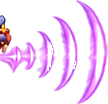
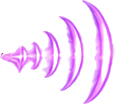
v0.75: sesler sırayla, zipla 3 ses, düşmanlar taş içinde doğmaz, mermi 8 karo / atış 9 karo, bitki zehri 5. karoya, fıçı kısa bekler, yarasa dalgası yeni görsel, gömme ayarları, P + tıkla ışınlan
Claude-Session: https://claude.ai/code/session_015fAnPKUucX6WRC71BPvNkG

diff --git a/js/sistemler/dusmanlar.js b/js/sistemler/dusmanlar.js
@@ -23,7 +23,7 @@ const DUSMAN_TIP = {
   yarasa:     [26, 20, 2, 0, true]      // uçar, oyuncunun yanına gelip ses dalgası atar
 };
 // Ayakları zemin çizgisinin bu kadar altına çizilenler (px, çimi örtsün)
-const DUSMAN_GOMME = { kedi: 7, domuz: 7, kertenkele: 7, golem: 7, bitki: 7, fici: 7, buyucu: 7 };
+const DUSMAN_GOMME = { kedi: 5, domuz: 5, kertenkele: 5, golem: 5, bitki: 5, fici: 5, buyucu: 5, maymun: 5, yilan: 5, gul: 5 };
 
 Object.assign(OyunSahnesi.prototype, {
 
@@ -37,6 +37,7 @@ Object.assign(OyunSahnesi.prototype, {
     const bw = bw0 * O / s, bh = bh0 * O / s;
     const gom = (DUSMAN_GOMME[e.tip] || 0) * O / s / O;   // görsel px → kare px
     const oy = (ucan ? (D.ust + D.ayak) / 2 : D.ayak) - gom;
+    if (e.tip !== 'boss' && e.tip !== 'orumcek') e = { ...e, x: this.dusmanBosX(e.x, e.y, bw0 * O, bh0 * O, ucan) };
     const y = e.tip === 'orumcek' ? e.tavan + 20 : e.y;
     const d = this.dusmanlar.create(e.x, y, 'd_' + e.tip, 0).setOrigin(0.5, oy / D.h).setScale(s).setDepth(6);
     d.body.setSize(bw, bh, false).setOffset((D.w - bw) / 2, ucan ? oy - bh / 2 : D.ayak - bh - gom);
@@ -60,6 +61,23 @@ Object.assign(OyunSahnesi.prototype, {
     return d;
   },
 
+  // Düşman taşın / sandığın / zeminin içinde doğmasın: gövdesi dolu kareye değiyorsa aynı zeminde en yakın boş yere
+  // (sola / sağa 8 px adımlarla, 8 karoya kadar) kayar. Yürüyenlerde yeni yerin altında zemin olmalı.
+  dusmanBosX(x, y, w, h, ucan) {
+    const T = this.L.karo, D = this.dolu, G = this.izgara;
+    const dolu = (r, c) => !D[r] || D[r][c] === undefined || D[r][c];
+    const bos = px => {
+      const x0 = px - w / 2, y0 = ucan ? y - h / 2 : y - h, y1 = ucan ? y + h / 2 : y - 1;
+      for (let r = Math.floor(y0 / T); r <= Math.floor(y1 / T); r++)
+        for (let c = Math.floor(x0 / T); c <= Math.floor((x0 + w - 1) / T); c++) if (dolu(r, c)) return false;
+      if (!ucan) { const r = Math.floor((y + 1) / T); for (const c of [Math.floor(x0 / T), Math.floor((x0 + w - 1) / T)]) if (!G[r] || !G[r][c]) return false; }
+      return true;
+    };
+    if (bos(x)) return x;
+    for (let k = 8; k <= 8 * T; k += 8) { if (bos(x - k)) return x - k; if (bos(x + k)) return x + k; }
+    return x;
+  },
+
   // Yürüyen düşmanın alanı: bastığı zemin parçası (duvar, uçurum ya da dikene kadar); alan dışına asla çıkmaz
   devriyeAlani(d, e) {
     const T = this.L.karo, G = this.izgara, W = G[0].length, H = G.length;
@@ -67,7 +85,7 @@ Object.assign(OyunSahnesi.prototype, {
     let r = Math.floor((e.y + 1) / T);
     while (r < H && !G[r][c]) r++;
     if (r >= H) return;
-    const ok = cc => cc >= 0 && cc < W && G[r][cc] && !G[r - 1][cc] && !this.dikenHucre.has(r + ',' + cc);
+    const ok = cc => cc >= 0 && cc < W && G[r][cc] && !G[r - 1][cc] && !this.dolu[r - 1][cc] && !this.dikenHucre.has(r + ',' + cc);
     if (!ok(c)) return;
     let a = c, z = c;
     while (ok(a - 1)) a--;
@@ -154,7 +172,7 @@ Object.assign(OyunSahnesi.prototype, {
     }
     d.atesBekle -= dt;
     const ayniZemin = yerdeMi(p.body) && Math.abs(p.body.bottom - b.bottom) < 8;
-    if (Math.abs(dx) < 420 && ayniZemin && !this.durum.olu) {
+    if (Math.abs(dx) < CONFIG.atisMenzil * 32 && ayniZemin && !this.durum.olu) {
       d.yon = Math.sign(dx) || 1;
       d.setFlipX(d.yon < 0);
       b.setVelocityX(0);
@@ -229,7 +247,7 @@ Object.assign(OyunSahnesi.prototype, {
     if (d.hazir > 0) { d.hazir -= dt; if (d.hazir <= 0) this.zehirAt(d); return; }
     d.atesBekle -= dt;
     const gor = !this.durum.olu && this.cameras.main.worldView.contains(d.x, d.y - 20)
-      && Math.abs(dx) < 7 * 32 + 16 && dy > -140 && dy < 80;
+      && Math.abs(dx) < 6 * 32 + 16 && dy > -140 && dy < 80;
     if (gor) {
       d.yon = Math.sign(dx) || 1;
       d.setFlipX(d.yon < 0);
@@ -238,11 +256,13 @@ Object.assign(OyunSahnesi.prototype, {
     if (!(d.anims.isPlaying && d.anims.currentAnim.key === 'd_bitki_at')) this.dusmanAnim(d, 'bekle');
   },
 
-  // Zehir: oyuncunun olduğu yere (en çok 7 karo) eğimli tükürük gibi düşer; yere ya da oyuncuya çarpınca zehirVur sesi
+  // Zehir: ağzından hafif yukarı çıkar, alçak bir yayla önündeki 5. karoya düşer; yere ya da oyuncuya çarpınca zehirVur sesi
   zehirAt(d) {
-    const M = ASSETLER.dusman.zehir, p = this.player, yon = d.yon;
-    const uzak = Phaser.Math.Clamp(Math.abs(p.x - d.x) - 16, 40, 7 * 32), vy = -380, t = 2 * -vy / CONFIG.fizik.yercekimi;
-    const m = this.mermiler.create(d.x + yon * 18, d.y - 30, 'zehir').setDepth(7);
+    const M = ASSETLER.dusman.zehir, yon = d.yon, g = CONFIG.fizik.yercekimi;
+    const agizY = d.y - 20, h = d.y - agizY, vy = -200;
+    const t = (-vy + Math.sqrt(vy * vy + 2 * g * h)) / g;     // ağızdan zemine iniş süresi
+    const uzak = 5 * 32 - 18;
+    const m = this.mermiler.create(d.x + yon * 18, agizY, 'zehir').setDepth(7);
     m.setDisplaySize(M.gen, M.gen * M.h / M.w);
     m.body.setAllowGravity(true);
     m.body.setSize(M.w * 0.4, M.h * 0.6, true);
@@ -270,16 +290,19 @@ Object.assign(OyunSahnesi.prototype, {
       T.rotation += d.yon * d.hizX * dt / (75 * s);
       const uc = (d.yon > 0 && d.x >= d.maxX - 1) || (d.yon < 0 && d.x <= d.minX + 1)
         || (b.blocked.right && d.yon > 0) || (b.blocked.left && d.yon < 0);
-      if (uc || (d.sure -= dt) <= 0) { this.ficiDon(d, false); d.yon = -d.yon; d.donus = 0; d.sonYon = d.yon; }
+      if (uc || (d.sure -= dt) <= 0) {
+        this.ficiDon(d, false); d.yon = -d.yon;
+        d.dinlen = Phaser.Math.Clamp((d.maxX - d.minX) / d.hiz / 2, 1, 4);   // bir turun dörtte biri kadar yürür
+      }
       return;
     }
     this.devriye(d, dt);
     this.dusmanAnim(d, 'yuru');
     d.setFlipX(d.yon < 0);
-    if (d.yon !== d.sonYon) { d.donus++; d.sonYon = d.yon; }
+    if (d.dinlen > 0) d.dinlen -= dt;
     const gor = !this.durum.olu && Math.abs(p.body.bottom - b.bottom) < 24 && Math.abs(dx) < 300
       && p.x >= d.minX - 24 && p.x <= d.maxX + 24 && this.cameras.main.worldView.contains(d.x, d.y - 10);
-    if (gor && d.donus >= 2) {
+    if (gor && !(d.dinlen > 0)) {
       d.durum = 'hazir'; d.sure = 0.5; d.yon = Math.sign(dx) || 1; d.setFlipX(d.yon < 0);
       this.dusmanAnim(d, 'hazir');
     }
@@ -318,7 +341,7 @@ Object.assign(OyunSahnesi.prototype, {
       hx = p.x + (dx > 0 ? -150 : 150); hy = p.y - 34 + Math.sin(time * 0.004 + d.faz) * 12;
       d.yon = Math.sign(dx) || 1;
       d.setFlipX(d.yon < 0);
-      if (gorus && d.atesBekle <= 0 && Math.abs(dy) < 40 && Math.abs(dx) < 280) {
+      if (gorus && d.atesBekle <= 0 && Math.abs(dy) < 40 && Math.abs(dx) < CONFIG.atisMenzil * 32) {
         d.saldiri = 0.45; d.atti = false; d.atesBekle = 2.2;
         d.play('d_yarasa_saldir');
         return;
@@ -353,12 +376,13 @@ Object.assign(OyunSahnesi.prototype, {
     m.body.setSize(M.w * 0.7, M.h * 0.6, true);
     m.setVelocityX(yon * (kopek ? 280 : ok ? 260 : yar ? 230 : buy ? 200 : 210));
     m.omur = 2.6;
+    m.baslaX = m.x;
   },
 
   updateMermiler(dt) {
     this.mermiler.getChildren().slice().forEach(m => {
       if (m.zehir) m.rotation = Math.atan2(m.body.velocity.y, m.body.velocity.x);   // zehir uçuş yönüne bakar
-      if ((m.omur -= dt) <= 0) m.destroy();
+      if ((m.omur -= dt) <= 0 || (m.baslaX !== undefined && Math.abs(m.x - m.baslaX) > CONFIG.mermiMenzil * 32)) m.destroy();
     });
   },
 
@@ -417,7 +441,8 @@ Object.assign(OyunSahnesi.prototype, {
   bossSes(zorla) {
     if (!zorla && this.bossSesObj && this.bossSesObj.isPlaying) return;
     this.bossSesObj = sesDurdur(this.bossSesObj);
-    this.bossSesObj = sesBaslat(this, 'boss' + Phaser.Math.Between(1, 13));
+    this.bossSira = (this.bossSira || 0) % 13 + 1;   // boss1 … boss13 sırayla
+    this.bossSesObj = sesBaslat(this, 'boss' + this.bossSira);
   },
 
   bossYen(d) {

diff --git a/js/veri/assetlar.js b/js/veri/assetlar.js
@@ -24,5 +24,6 @@ ASSETLER.kirParca = {"huc": 64, "sutun": 3, "sayi": [2, 1, 2, 2, 3, 2, 2, 2, 2, 
 
 
 
+
 // Düşman sayfaları (araclar/dusmanKes.py ile üretildi): hücre w×h, ayak çizgisi, görünür boy (oyun px), animasyon kareleri
-ASSETLER.dusman = {"gul": {"w": 140, "h": 107, "ayak": 106, "ust": 0, "boy": 36, "anim": {"yuru": [0, 1, 2, 3, 4, 5], "ol": [6, 7, 8, 9]}}, "yilan": {"w": 160, "h": 73, "ayak": 73, "ust": 9, "boy": 22, "anim": {"yuru": [0, 1, 2, 3, 4, 5], "ol": [6, 7, 8, 9]}}, "yuvarlak": {"w": 131, "h": 95, "ayak": 95, "ust": 2, "boy": 32, "anim": {"yuru": [0, 1, 2, 3, 4, 5], "ol": [6, 7, 8, 9]}}, "ari": {"w": 164, "h": 93, "ayak": 90, "ust": 0, "boy": 30, "anim": {"uc": [0, 1, 2, 3], "ol": [4, 5, 6, 7]}}, "orumcek": {"w": 161, "h": 110, "ayak": 104, "ust": 0, "boy": 34, "anim": {"bekle": [0, 1], "ol": [2, 3, 4, 5]}}, "maymun": {"w": 122, "h": 109, "ayak": 109, "ust": 1, "boy": 38, "anim": {"yuru": [0, 1, 2, 3, 4, 5], "dur": [0], "at": [6, 7, 8, 9, 10], "ol": [11, 12, 13]}}, "atesTopu": {"w": 96, "h": 60, "gen": 22}, "kopek": {"w": 146, "h": 113, "ayak": 113, "ust": 5, "boy": 40, "anim": {"yuru": [0, 1, 2, 3, 4, 5], "at": [6, 7, 8, 9], "ol": [10, 11]}}, "mizrak": {"w": 132, "h": 39, "gen": 26}, "boss": {"w": 190, "h": 181, "ayak": 181, "ust": 0, "boy": 84, "anim": {"yuru": [0, 1, 2, 3], "saldir": [4, 5, 6, 7], "ol": [8, 9]}}, "kedi": {"w": 188, "h": 154, "ayak": 154, "ust": 0, "boy": 46, "anim": {"yuru": [0, 1, 2, 3, 4, 5], "saldir": [6, 7, 8], "dur": [9], "ol": [6]}}, "domuz": {"w": 187, "h": 213, "ayak": 213, "ust": 38, "boy": 58, "anim": {"yuru": [0, 1, 2, 3, 4, 5], "saldir": [6, 7, 8], "dur": [9], "ol": [7]}}, "dalga": {"w": 108, "h": 104, "gen": 30}, "yarasa": {"w": 202, "h": 307, "ayak": 192, "ust": 28, "boy": 40, "anim": {"uc": [0, 1, 2, 3, 4, 5], "saldir": [6, 7, 8], "ol": [8]}}, "golem": {"w": 236, "h": 239, "ayak": 239, "ust": 4, "boy": 62, "anim": {"yuru": [0, 1, 2, 3, 4, 5], "saldir": [6, 7, 8, 9], "dur": [0], "ol": [7]}}, "zehir": {"w": 116, "h": 58, "gen": 26}, "bitki": {"w": 240, "h": 180, "ayak": 179, "ust": 2, "boy": 50, "anim": {"bekle": [0, 1, 2, 3, 4, 5], "at": [6, 7, 8, 9], "ol": [8]}}, "fici": {"w": 184, "h": 168, "ayak": 168, "ust": 0, "boy": 38, "anim": {"yuru": [0, 1, 2, 3, 4], "hazir": [5], "top": [6], "ol": [5]}}, "buyu": {"w": 145, "h": 96, "gen": 34}, "buyucu": {"w": 238, "h": 221, "ayak": 221, "ust": 3, "boy": 44, "anim": {"yuru": [0, 1, 2, 3], "buyu": [4, 5, 6, 7, 8], "dur": [4], "ol": [6]}}, "ok": {"w": 54, "h": 34, "gen": 24}, "kertenkele": {"w": 189, "h": 162, "ayak": 162, "ust": 0, "boy": 40, "anim": {"yuru": [0, 1, 2, 3, 4, 5], "at": [6, 7, 8], "dur": [9], "ol": [8]}}};
+ASSETLER.dusman = {"gul": {"w": 140, "h": 107, "ayak": 106, "ust": 0, "boy": 36, "anim": {"yuru": [0, 1, 2, 3, 4, 5], "ol": [6, 7, 8, 9]}}, "yilan": {"w": 160, "h": 73, "ayak": 73, "ust": 9, "boy": 22, "anim": {"yuru": [0, 1, 2, 3, 4, 5], "ol": [6, 7, 8, 9]}}, "yuvarlak": {"w": 131, "h": 95, "ayak": 95, "ust": 2, "boy": 32, "anim": {"yuru": [0, 1, 2, 3, 4, 5], "ol": [6, 7, 8, 9]}}, "ari": {"w": 164, "h": 93, "ayak": 90, "ust": 0, "boy": 30, "anim": {"uc": [0, 1, 2, 3], "ol": [4, 5, 6, 7]}}, "orumcek": {"w": 161, "h": 110, "ayak": 104, "ust": 0, "boy": 34, "anim": {"bekle": [0, 1], "ol": [2, 3, 4, 5]}}, "maymun": {"w": 122, "h": 109, "ayak": 109, "ust": 1, "boy": 38, "anim": {"yuru": [0, 1, 2, 3, 4, 5], "dur": [0], "at": [6, 7, 8, 9, 10], "ol": [11, 12, 13]}}, "atesTopu": {"w": 96, "h": 60, "gen": 22}, "kopek": {"w": 146, "h": 113, "ayak": 113, "ust": 5, "boy": 40, "anim": {"yuru": [0, 1, 2, 3, 4, 5], "at": [6, 7, 8, 9], "ol": [10, 11]}}, "mizrak": {"w": 132, "h": 39, "gen": 26}, "boss": {"w": 190, "h": 181, "ayak": 181, "ust": 0, "boy": 84, "anim": {"yuru": [0, 1, 2, 3], "saldir": [4, 5, 6, 7], "ol": [8, 9]}}, "kedi": {"w": 188, "h": 154, "ayak": 154, "ust": 0, "boy": 46, "anim": {"yuru": [0, 1, 2, 3, 4, 5], "saldir": [6, 7, 8], "dur": [9], "ol": [6]}}, "domuz": {"w": 187, "h": 213, "ayak": 213, "ust": 38, "boy": 58, "anim": {"yuru": [0, 1, 2, 3, 4, 5], "saldir": [6, 7, 8], "dur": [9], "ol": [7]}}, "dalga": {"w": 115, "h": 104, "gen": 30}, "yarasa": {"w": 202, "h": 307, "ayak": 192, "ust": 28, "boy": 40, "anim": {"uc": [0, 1, 2, 3, 4, 5], "saldir": [6, 7, 8], "ol": [8]}}, "golem": {"w": 236, "h": 239, "ayak": 239, "ust": 4, "boy": 62, "anim": {"yuru": [0, 1, 2, 3, 4, 5], "saldir": [6, 7, 8, 9], "dur": [0], "ol": [7]}}, "zehir": {"w": 116, "h": 58, "gen": 26}, "bitki": {"w": 240, "h": 180, "ayak": 179, "ust": 2, "boy": 50, "anim": {"bekle": [0, 1, 2, 3, 4, 5], "at": [6, 7, 8, 9], "ol": [8]}}, "fici": {"w": 184, "h": 168, "ayak": 168, "ust": 0, "boy": 38, "anim": {"yuru": [0, 1, 2, 3, 4], "hazir": [5], "top": [6], "ol": [5]}}, "buyu": {"w": 145, "h": 96, "gen": 34}, "buyucu": {"w": 238, "h": 221, "ayak": 221, "ust": 3, "boy": 44, "anim": {"yuru": [0, 1, 2, 3], "buyu": [4, 5, 6, 7, 8], "dur": [4], "ol": [6]}}, "ok": {"w": 54, "h": 34, "gen": 24}, "kertenkele": {"w": 189, "h": 162, "ayak": 162, "ust": 0, "boy": 40, "anim": {"yuru": [0, 1, 2, 3, 4, 5], "at": [6, 7, 8], "dur": [9], "ol": [8]}}};

diff --git a/js/sahneler/OyunSahnesi.js b/js/sahneler/OyunSahnesi.js
@@ -45,6 +45,12 @@ class OyunSahnesi extends Phaser.Scene {
 
   // Tek seferlik ses (yardimci.js → sesCal)
   ses(ad, ayar) { sesCal(this, ad, ayar); }
+  // ön1, ön2 … önN sırayla çalar, sondan sonra başa döner
+  sesSira(on, n, ayar) {
+    this.sesSayac = this.sesSayac || {};
+    this.sesSayac[on] = (this.sesSayac[on] || 0) % n + 1;
+    this.ses(on + this.sesSayac[on], ayar);
+  }
 
   // ---- Kamera ----
   // Ekranı tam doldurur; yakınlık ekran yüksekliğine göre. Harita modunda (P) tüm dünya, kamera sabit.
@@ -238,9 +244,8 @@ class OyunSahnesi extends Phaser.Scene {
     F.overlap(P, this.ozeller, null, (p, o) => { this.ozelAl(o); return false; });
     F.overlap(P, this.taneler, null, (p, t) => { this.taneAl(t); return false; });
     // kristal taştan dökülen her elmas yere ilk değdiğinde bir kez elmasDus çalar
-    const taneDus = (t) => { if (!t.dustu && t.body.blocked.down) { t.dustu = true; this.ses('elmasDus', { volume: 0.7 }); } };
-    F.collider(this.taneler, this.solids, taneDus);
-    F.collider(this.taneler, this.sandiklar, taneDus);
+    F.collider(this.taneler, this.solids);
+    F.collider(this.taneler, this.sandiklar);
   }
 
   // ---- Klavye ----
@@ -253,6 +258,14 @@ class OyunSahnesi extends Phaser.Scene {
     kb.addCapture('SPACE,UP,DOWN,LEFT,RIGHT');
     kb.on('keydown-R', () => this.scene.restart());
     kb.on('keydown-P', () => this.haritaDegistir());
+    // GELİŞTİRME (yayından önce silinecek): harita modunda (P) tıklanan yere ışınlan, normal kameraya dön
+    this.input.on('pointerdown', ptr => {
+      if (!this.haritaModu) return;
+      const w = ptr.positionToCamera(this.cameras.main);
+      this.player.body.reset(w.x, w.y);
+      this.player.body.setVelocity(0, 0);
+      this.haritaDegistir();
+    });
     // 1, 2, … → o bölümü yükle (bilgisayarda)
     ['ONE', 'TWO', 'THREE', 'FOUR', 'FIVE', 'SIX', 'SEVEN', 'EIGHT', 'NINE'].slice(0, BOLUMLER.length).forEach((ad, i) => {
       const ac = () => { this.registry.set('bolum', i); this.scene.restart(); };

diff --git a/js/ayarlar.js b/js/ayarlar.js
@@ -1,9 +1,12 @@
 // Popeye Tales (Atari) — oyun ayarları. Tüm uzunluklar dünya pikseli (1 karo = 32 px), süreler saniye.
 const CONFIG = {
-  surum: 'v0.74',
+  surum: 'v0.75',
   bayrakBoy: 57.6,      // kontrol noktası bayrağının boyu
   ustUsteGomme: 4,
-  tasYukari: 3,         // kırılır taşlar (kasa hariç) bu kadar yukarıda çizilir      // üst üste taş / kasa: üstteki, alttakinin üst kenar (perspektif) payına oturur (px)
+  tasYukari: 3,         // kırılır taşlar (kasa hariç) yerde bu kadar yukarıda çizilir (bölümde tasZeminYukari varsa o)
+  tasUstuYukari: 5,     // taş başka taş / kasa üstündeyken bu kadar yukarıda
+  mermiMenzil: 8,       // düz atılan düşman mermileri bu kadar karo gidip kaybolur
+  atisMenzil: 9,        // düşmanlar en çok bu kadar karo uzaktan ateş eder      // üst üste taş / kasa: üstteki, alttakinin üst kenar (perspektif) payına oturur (px)
   dusmanOlcek: 0.9,     // tüm düşmanlar (görsel + gövde)
   selaleHiz: 140,       // şelale suyunun aşağı akış hızı (px/sn)
   selaleDuyma: 420,     // şelale sesi kadrajın bu kadar dışından duyulmaya başlar (px)
@@ -57,7 +60,7 @@ const CONFIG = {
 // girince) dosyaları gelince buraya eklenir.
 const SES_KLASOR = {
   popeye: ['bastonSalla', 'bastonVur', 'bastonTakil', 'cekTakil', 'sekme1', 'sekme2', 'sekme3', 'inis', 'tirmanCik', 'tirmanIn',
-    'adim1', 'adim2', 'adim3', 'kaydir1', 'kaydir2', 'zipla1', 'zipla2', 'zipla3', 'zipla4', 'zipla5', 'zipla6', 'olum', 'tamKaybet'],
+    'adim1', 'adim2', 'adim3', 'kaydir1', 'kaydir2', 'zipla1', 'zipla2', 'zipla3', 'olum', 'tamKaybet'],
   elmaslar: ['para1', 'para2', 'para3', 'para4', 'para5', 'elmas', 'elmasDus', 'altin', 'capaAltin', 'kizilElmas', 'buyukElmas',
     'yasam', 'can'],
   cevre: ['gizli', 'bayrak', 'sandikDus', 'tasVur1', 'tasVur2', 'tasKir', 'tahtaVur', 'tahtaKir', 'selale'],

diff --git a/js/sistemler/nesneler.js b/js/sistemler/nesneler.js
@@ -69,7 +69,7 @@ Object.assign(OyunSahnesi.prototype, {
   elmasAl(e) {
     if (!e.active) return;
     e.disableBody(true, true);
-    this.ses('para' + Phaser.Math.Between(1, 5));
+    this.sesSira('para', 5);
     this.durum.elmas++;
     this.durum.puan += CONFIG.puan.elmas;
     this.hudGuncelle();
@@ -198,7 +198,9 @@ Object.assign(OyunSahnesi.prototype, {
       const alt = ust.get(Math.floor(s.body.center.x / T) + ',' + Math.round(s.body.bottom / T));
       const taban = alt && alt !== s && Math.abs(alt.body.top - s.body.bottom) < 3 ? (alt.gommeTaban || 0) + CONFIG.ustUsteGomme : this.zeminGomme;
       s.gommeTaban = taban;
-      const d = taban - (s.kirTas && s.tur !== 'kasa' ? CONFIG.tasYukari : 0);   // taşlar kasalardan biraz yukarıda durur
+      // taşlar (kasa hariç): yerde tasZeminYukari, başka taş / kasa üstünde tasUstuYukari kadar yukarıda
+      const tas = s.kirTas && s.tur !== 'kasa', ustte = taban !== this.zeminGomme;
+      const d = taban - (!tas ? 0 : ustte ? CONFIG.tasUstuYukari : (this.L.tasZeminYukari ?? CONFIG.tasYukari));
       if (s.gommeD === d) return;
       s.gommeD = d;
       s.setDepth(2 + d / 1000);
@@ -312,6 +314,7 @@ Object.assign(OyunSahnesi.prototype, {
       t.body.setBounce(0.35, 0.35).setDragX(160);
       t.body.mass = 0.01;
       t.alinir = this.time.now + 300;   // hemen toplanmasın, saçıldığı görünsün
+      this.time.delayedCall(i * 70, () => this.ses('elmasDus', { volume: 0.7 }));   // her elmas çıkar çıkmaz bir kez
     }
   },
 

diff --git a/js/sahneler/BootSahnesi.js b/js/sahneler/BootSahnesi.js
@@ -94,14 +94,15 @@ class BootSahnesi extends Phaser.Scene {
     Object.entries(ASSETLER.dusman).forEach(([ad, D]) => {
       if (!D.anim) return;
       const ekle = (k, kareler, fps, tekrar) => this.anims.create({
-        key: 'd_' + ad + '_' + k, frames: kareler.map(frame => ({ key: 'd_' + ad, frame })), frameRate: fps, repeat: tekrar ? -1 : 0
+        key: 'd_' + ad + '_' + k, frames: kareler.map(frame => ({ key: 'd_' + ad, frame })), frameRate: fps, repeat: tekrar ? -1 : 0,
+        yoyo: ad === 'bitki' && k === 'bekle'   // bitki duruşu ileri-geri, akıcı
       });
       Object.entries(D.anim).forEach(([k, kareler]) => {
         if (ad === 'boss' && k === 'saldir') {
           ekle('hazir', kareler.slice(0, 2), 4, false);
           ekle('atil', [kareler[2]], 1, false);
           ekle('dinlen', [kareler[3]], 1, false);
-        } else ekle(k, kareler, HIZ[k] || 10, DONGU[k]);
+        } else ekle(k, kareler, ad === 'bitki' && k === 'bekle' ? 8 : HIZ[k] || 10, DONGU[k]);
       });
     });
   }

diff --git a/js/veri/level2.js b/js/veri/level2.js
@@ -8,6 +8,7 @@ const LEVEL2 = {
   cikis: [7472,5504],
   tirmanma: 'zincir',
   zeminGomme: 6,
+  tasZeminYukari: 0,
   bolgeler: [[0,'a'],[66,'k'],[132,'m']],
   alfabe: '!"#$%&()*+,-./0123456789:;<=>?@ABCDEFGHIJKLMNOPQRSTUVWXYZ[]^_`abcdefghijklmnopqrstuvwxyz{|}~ÀÁÂÃÄÅÆÇÈÉÊËÌÍÎÏÐÑÒÓÔÕÖ×ØÙÚÛÜÝÞßàáâãäåæçèéêëìíîïðñòóôõö÷øùúûüýþÿ',
   bloklar: [

diff --git a/js/sistemler/oyuncu.js b/js/sistemler/oyuncu.js
@@ -366,8 +366,7 @@ Object.assign(OyunSahnesi.prototype, {
   },
 
   zipSes() {
-    this.zipNo = ((this.zipNo || 0) % 6) + 1;
-    this.ses('zipla' + this.zipNo);
+    this.sesSira('zipla', 3);
   },
 
   // ---- Sarmaşık ----

diff --git a/araclar/dusmanKes.py b/araclar/dusmanKes.py
@@ -172,6 +172,12 @@ for ad, (y0, y1, n, bol, an, mi, boy, *kay) in DUS.items():
         Image.fromarray(_buyu).save(KOK + '/assets/dusman/buyu.png', optimize=True)
         meta['buyu'] = {'w': int(_buyu.shape[1]), 'h': int(_buyu.shape[0]), 'gen': 34}
     if ad == 'yarasa':
+        # v0.75: ses dalgası artık ayrı görselden (kaynak/yarasa_dalga.png); yoksa sayfadan kesileni kullan
+        import os
+        if os.path.exists(KOK + '/assets/kaynak/yarasa_dalga.png'):
+            _d = np.array(Image.open(KOK + '/assets/kaynak/yarasa_dalga.png').convert('RGBA'))
+            _d[_d[:, :, 3] < 30] = 0
+            _ys, _xs = np.where(_d[:, :, 3] > 0); _dalga = _d[_ys.min():_ys.max() + 1, _xs.min():_xs.max() + 1]
         Image.fromarray(_dalga).save(KOK + '/assets/dusman/dalga.png', optimize=True)
         meta['dalga'] = {'w': int(_dalga.shape[1]), 'h': int(_dalga.shape[0]), 'gen': 30}
     meta[ad] = {'w': W, 'h': H, 'ayak': int(alt), 'ust': int(ust), 'boy': boy,

diff --git a/araclar/bolum2Uret.py b/araclar/bolum2Uret.py
@@ -470,7 +470,7 @@ s += 'const LEVEL2 = {\n'
 s += "  ad: '2. Bölüm - Mor Derinlikler',\n"
 s += f'  genislik: {W * T},\n  yukseklik: {H * T},\n  karo: {T},\n'
 s += f'  baslangic: [{BASLA[0] * T + 16},{BASLA[1] * T}],\n  cikis: [{CIKIS[0] * T + 16},{CIKIS[1] * T}],\n'
-s += "  tirmanma: 'zincir',\n  zeminGomme: 6,\n"
+s += "  tirmanma: 'zincir',\n  zeminGomme: 6,\n  tasZeminYukari: 0,\n"
 s += "  bolgeler: [[0,'a'],[66,'k'],[132,'m']],\n"
 s += "  alfabe: '" + alf + "',\n"
 B = bloklar()
